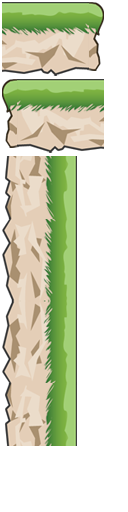
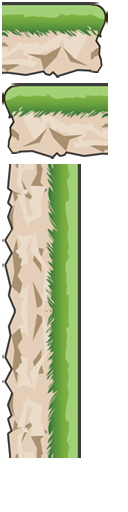
Create Platform Class

Changed region(s): [[0.0, 0.0, 0.8438, 0.9062]]

diff --git a/src/role/platform.js b/src/role/platform.js
@@ -12,6 +12,8 @@ var Platform = cc.Class.extend({
 	// physics related.
 	space: null,
 	body: null,
+	shape_l: null,
+	shape_r: null,
 	shape: null,
 	
 	//platform
@@ -26,21 +28,58 @@ var Platform = cc.Class.extend({
 	 */
 	ctor: function (boardX, boardY, length) {
 		this.length = length;
+		var leftWidth = 102;
+		var midWidth = 290;
+		
+		boardX += leftWidth/2;  //let x goes right
 
-		this.spriteSheet = new cc.SpriteBatchNode(res.platform.left);
+		cc.spriteFrameCache.addSpriteFrames(res.platform.plist);
+		this.spriteSheet = new cc.SpriteBatchNode(res.platform.png);
 		
 		//create platform
-		this.platform_l = new cc.PhysicsSprite(res.platform.left);
+		this.platform_l = new cc.PhysicsSprite(cc.spriteFrameCache.getSpriteFrame("platform_l.png"));
+		this.platform_r = new cc.PhysicsSprite(cc.spriteFrameCache.getSpriteFrame("platform_r.png"));//
+		
 		this.spriteSheet.addChild(this.platform_l);
+		this.spriteSheet.addChild(this.platform_r);//
 		
-		var contentSize = this.platform_l.getContentSize();
+		var cSize_l = this.platform_l.getContentSize();
+		
+		var body_l = new cp.StaticBody();
+		body_l.setPos(cc.p(boardX, boardY));
+		this.platform_l.setBody(body_l);
+		
+		var offsetY = 0.2;
+		if(length != 0) {
+			var body = [];
+			this.platform_m = [];
+			var shape = [];
+			for(var i=0; i<length; i++) {
+				this.platform_m[i] = new cc.PhysicsSprite(cc.spriteFrameCache.getSpriteFrame("platform_m.png"));//
+				this.spriteSheet.addChild(this.platform_m[i]);
 
-		var body = new cp.StaticBody();
-		body.setPos(cc.p(boardX, boardY));
-		this.platform_l.setBody(body);
-		this.body = body;
+				body[i] = new cp.StaticBody();
+				body[i].setPos(cc.p(
+						leftWidth/2+midWidth/2+this.platform_l.getPositionX()+midWidth*i
+						,boardY-offsetY));
+				this.platform_m[i].setBody(body[i]);
+				shape[i] = new cp.BoxShape(body[i], this.platform_m[i].width, cSize_l.height );
+				offsetY+=0.2
+			}
+			this.shape = shape;
+
+			var body_r = new cp.StaticBody();
+			body_r.setPos(cc.p(this.platform_m[length-1].getPositionX()+midWidth/2+leftWidth/2, boardY-offsetY));
+			this.platform_r.setBody(body_r);//
+		}else{  //no middle platform
+			var body_r = new cp.StaticBody();
+			body_r.setPos(cc.p(leftWidth+this.platform_l.getPositionX(), boardY-offsetY));
+			this.platform_r.setBody(body_r);//
+		}
 		
-		var winSize = cc.director.getWinSize();
+		this.shape_l = new cp.BoxShape(body_l, cSize_l.width, cSize_l.height );
+		this.shape_r = new cp.BoxShape(body_r, cSize_l.width, cSize_l.height );
+		
 //		var shape = new cp.SegmentShape(
 //				body,
 //				// Start point
@@ -49,8 +88,6 @@ var Platform = cc.Class.extend({
 //				cc.p(length * contentSize.width, 0),
 //				// thickness of wall
 //				contentSize.height / 2);
-		var shape = new cp.BoxShape(body, contentSize.width, contentSize.height);
-		this.shape = shape;
 	},
 
 	/**
@@ -63,15 +100,35 @@ var Platform = cc.Class.extend({
 			layer.addChild(this.platform[i]);
 		}*/
 		layer.addChild(this.spriteSheet);
-		
 		this.space = space;
-		this.space.addStaticShape(this.shape);
+		this.space.addStaticShape(this.shape_l);
+		this.space.addStaticShape(this.shape_r);
+		
+		for(var i=0;i<this.length;i++){
+			this.space.addStaticShape(this.shape[i]);
+		}
 	},
 
 	/**
 	 * Called by layer cleanup.
 	 */
 	removeFromLayer: function () {
-		// TODO: do some cleanups.
+		this.space.removeStaticShape(this.shape_l);
+		this.space.removeStaticShape(this.shape_r);
+		this.shape_l = null;
+		this.shape_r = null;
+		
+		this.platform_l.removeFromParent();
+		this.platform_r.removeFromParent();
+		this.platform_l = null;
+		this.platform_r = null;
+	
+		//clean middle platform
+		for(var i=0; i<this.length; i++) {
+			this.space.removeStaticShape(this.shape[i]);
+			this.shape[i] = null;
+			this.platform_m[i].removeFromParent();
+			this.platform_m[i] = null;
+		}	
 	}
 }) 

diff --git a/src/layer/game-layer.js b/src/layer/game-layer.js
@@ -9,8 +9,8 @@ var GameLayer = cc.Layer.extend({
 	// the recognizer.
 	recognizer: null,
 
-	// runner speed.
-	runnerSpeed: 35,
+	// virtual Pos of player on the scene.
+	PlayerPosOfScene: 300,
 
 	ctor: function(space) {
 		this._super();
@@ -24,11 +24,21 @@ var GameLayer = cc.Layer.extend({
 		this.addRole(player);
 		
 		//create platform
-		var platform = new Platform(700,50,0);
+		var platform = new Platform(150,100,3);
+		this.addRole(platform);
+		var platform = new Platform(1300,200,1);
 		this.addRole(platform);
 		
-		var platform = new Platform(800,100,1);
+		var platform = new Platform(1900,300,1);
 		this.addRole(platform);
+		
+		var platform = new Platform(2500,100,1);
+		this.addRole(platform);
+		
+		//platform.removeFromLayer();
+		
+		//var platform = new Platform(920,100,2);
+		//this.addRole(platform);
 		
 		// Event handling.
 		cc.eventManager.addListener({
@@ -44,7 +54,7 @@ var GameLayer = cc.Layer.extend({
 		//physic Debug
 		this._debugNode = cc.PhysicsDebugNode.create(this.space);
 		this._debugNode.setVisible(true);
-		this.addChild(this._debugNode);
+		//this.addChild(this._debugNode);
 		
 	},
 	
@@ -81,6 +91,6 @@ var GameLayer = cc.Layer.extend({
 	},
 
 	getEyeX: function () {
-		return this.player.sprite.getPositionX() - this.runnerSpeed;
+		return this.player.sprite.getPositionX()-this.PlayerPosOfScene;
 	}
 });

diff --git a/src/role/player.js b/src/role/player.js
@@ -18,7 +18,7 @@ var Player = cc.Class.extend({
 	status: 'running',
 	
 	// player speed.
-	runningSpeed: 5000,
+	runningSpeed: 10000,
 	
 	/**
 	 * Construct a new player.
@@ -30,7 +30,7 @@ var Player = cc.Class.extend({
 		this.runningAction = new cc.RepeatForever(new cc.Animate(
 				new cc.Animation([1, 2, 3, 4, 5, 6, 7, 8].map(function (i) {
 					return cc.spriteFrameCache.getSpriteFrame("panda_run_0" + i + ".png");
-				}), 0.15)
+				}), 0.08)
 		));
 		this.runningAction.retain();
 		
@@ -53,7 +53,7 @@ var Player = cc.Class.extend({
 
 		var contentSize = this.sprite.getContentSize();
 
-		var body = new cp.Body(100, cp.momentForBox(Number.POSITIVE_INFINITY, contentSize.width, contentSize.height));
+		var body = new cp.Body(90, cp.momentForBox(Number.POSITIVE_INFINITY, contentSize.width, contentSize.height));
 		body.setPos(cc.p(x, y));
 		body.applyImpulse(cp.v(this.runningSpeed, 0), cp.v(0, 0));
 		this.body = body;

diff --git a/src/resource.js b/src/resource.js
@@ -27,7 +27,9 @@ var res = {
 	platform: {
 		left: 'res/platform_l.png',
 		middle: 'res/platform_m.png',
-		right: 'res/platform_r.png'
+		right: 'res/platform_r.png',
+		plist: 'res/platform.plist',
+		png: 'res/platform.png'
 	},
 	
 	// Background
